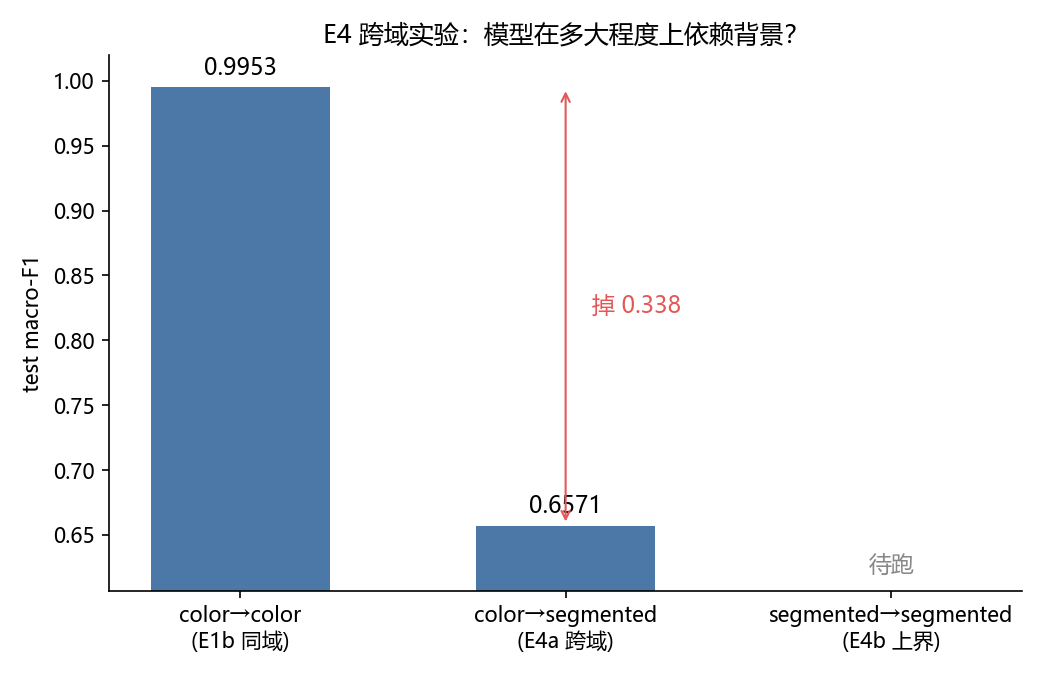
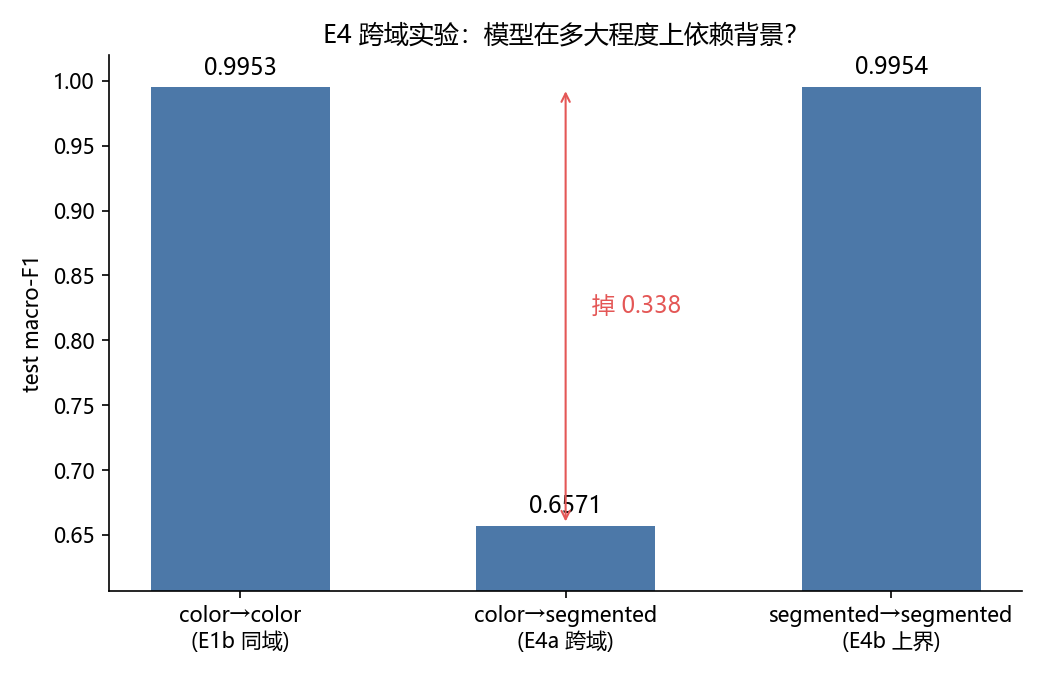
feat(e3): E3 鲁棒性 60 组结果 + 曲线图 + 出图脚本
- results.csv: 追加 E3 60 行（e3a/e3b/e3c/e3d = e1a/e1b/e1c/e1d 模型 × brightness/rotation/blur × sev1-5），
  并回填 e4a 行缺失的 params_m=11.18
- scripts/make_figures.py: 新增 fig_e3_robustness（三联图，曲线按 notes 里的源模型分组）
- results/figures/e3_robustness_curves.png: 新增
- results/figures/e4_cross_domain.png: 补上 E4b 后重画（0.9953 / 0.6571 / 0.9954）
- results/summary.csv: 重跑

与 PR #7（B 提交的同批数据）逐行比对：60/60 一致，最大差 0.0021。

Changed region(s): [[0.7619, 0.0622, 0.9448, 0.9022]]

diff --git a/scripts/make_figures.py b/scripts/make_figures.py
@@ -86,6 +86,60 @@ def fig_e4_cross_domain(df: pd.DataFrame) -> None:
     print(f"[figure] {out.relative_to(ROOT)}")
 
 
+CORRUPTION_CN = {
+    "brightness": "亮度（0.90→0.30）",
+    "rotation": "旋转（10°→60°）",
+    "blur": "模糊（0.6→3.2）",
+}
+
+MODEL_CN = {
+    "e1a": "resnet18-从零",
+    "e1b": "resnet18-微调",
+    "e1c": "自建CNN",
+    "e1d": "resnet18-微调+类权重",
+}
+
+
+def fig_e3_robustness(df: pd.DataFrame) -> None:
+    """E3：三种扰动 × 5 档严重度下的 test macro-F1 曲线（每个模型一条）。"""
+    d = df[
+        df["exp_id"].astype(str).str.match(r"^e3[a-d]?$")
+        & (df["split"] == "test")
+        & (df["corruption"].isin(CORRUPTION_CN))
+    ].copy()
+    if d.empty:
+        print("[figure] 跳过 E3：results.csv 里还没有 E3 行")
+        return
+
+    # 模型来源：优先按 notes 里的 "eval from e1x_"，否则用 exp_id 后缀（e3a→e1a）
+    src = d["notes"].astype(str).str.extract(r"eval from (e1[a-d])_")[0]
+    fallback = "e1" + d["exp_id"].astype(str).str.extract(r"^e3([a-d])$")[0]
+    d["src"] = src.fillna(fallback)
+
+    fig, axes = plt.subplots(1, 3, figsize=(13, 4.2), dpi=150, sharey=True)
+    for ax, corr in zip(axes, CORRUPTION_CN):
+        sub = d[d["corruption"] == corr]
+        for src_key in sorted(sub["src"].unique()):
+            g = sub[sub["src"] == src_key].groupby("severity")["macro_f1"].mean().sort_index()
+            ax.plot(g.index, g.values, marker="o", label=MODEL_CN.get(src_key, src_key))
+        ax.set_title(CORRUPTION_CN[corr], fontsize=11)
+        ax.set_xlabel("扰动严重度")
+        ax.set_xticks([1, 2, 3, 4, 5])
+        ax.grid(alpha=0.3)
+        ax.spines[["top", "right"]].set_visible(False)
+    axes[0].set_ylabel("test macro-F1")
+    axes[0].set_ylim(0, 1.02)
+    axes[-1].legend(fontsize=9, frameon=False)
+    fig.suptitle("E3 扰动鲁棒性：模型在不同退化强度下的表现", fontsize=12)
+    fig.tight_layout()
+
+    FIG_DIR.mkdir(parents=True, exist_ok=True)
+    out = FIG_DIR / "e3_robustness_curves.png"
+    fig.savefig(out)
+    plt.close(fig)
+    print(f"[figure] {out.relative_to(ROOT)}")
+
+
 def main() -> int:
     if not RESULTS.exists():
         print(f"缺少 {RESULTS}", file=sys.stderr)
@@ -93,6 +147,7 @@ def main() -> int:
     df = pd.read_csv(RESULTS)
     df.columns = [c.strip().lstrip("") for c in df.columns]  # 去 BOM
     fig_e4_cross_domain(df)
+    fig_e3_robustness(df)
     return 0
 
 
